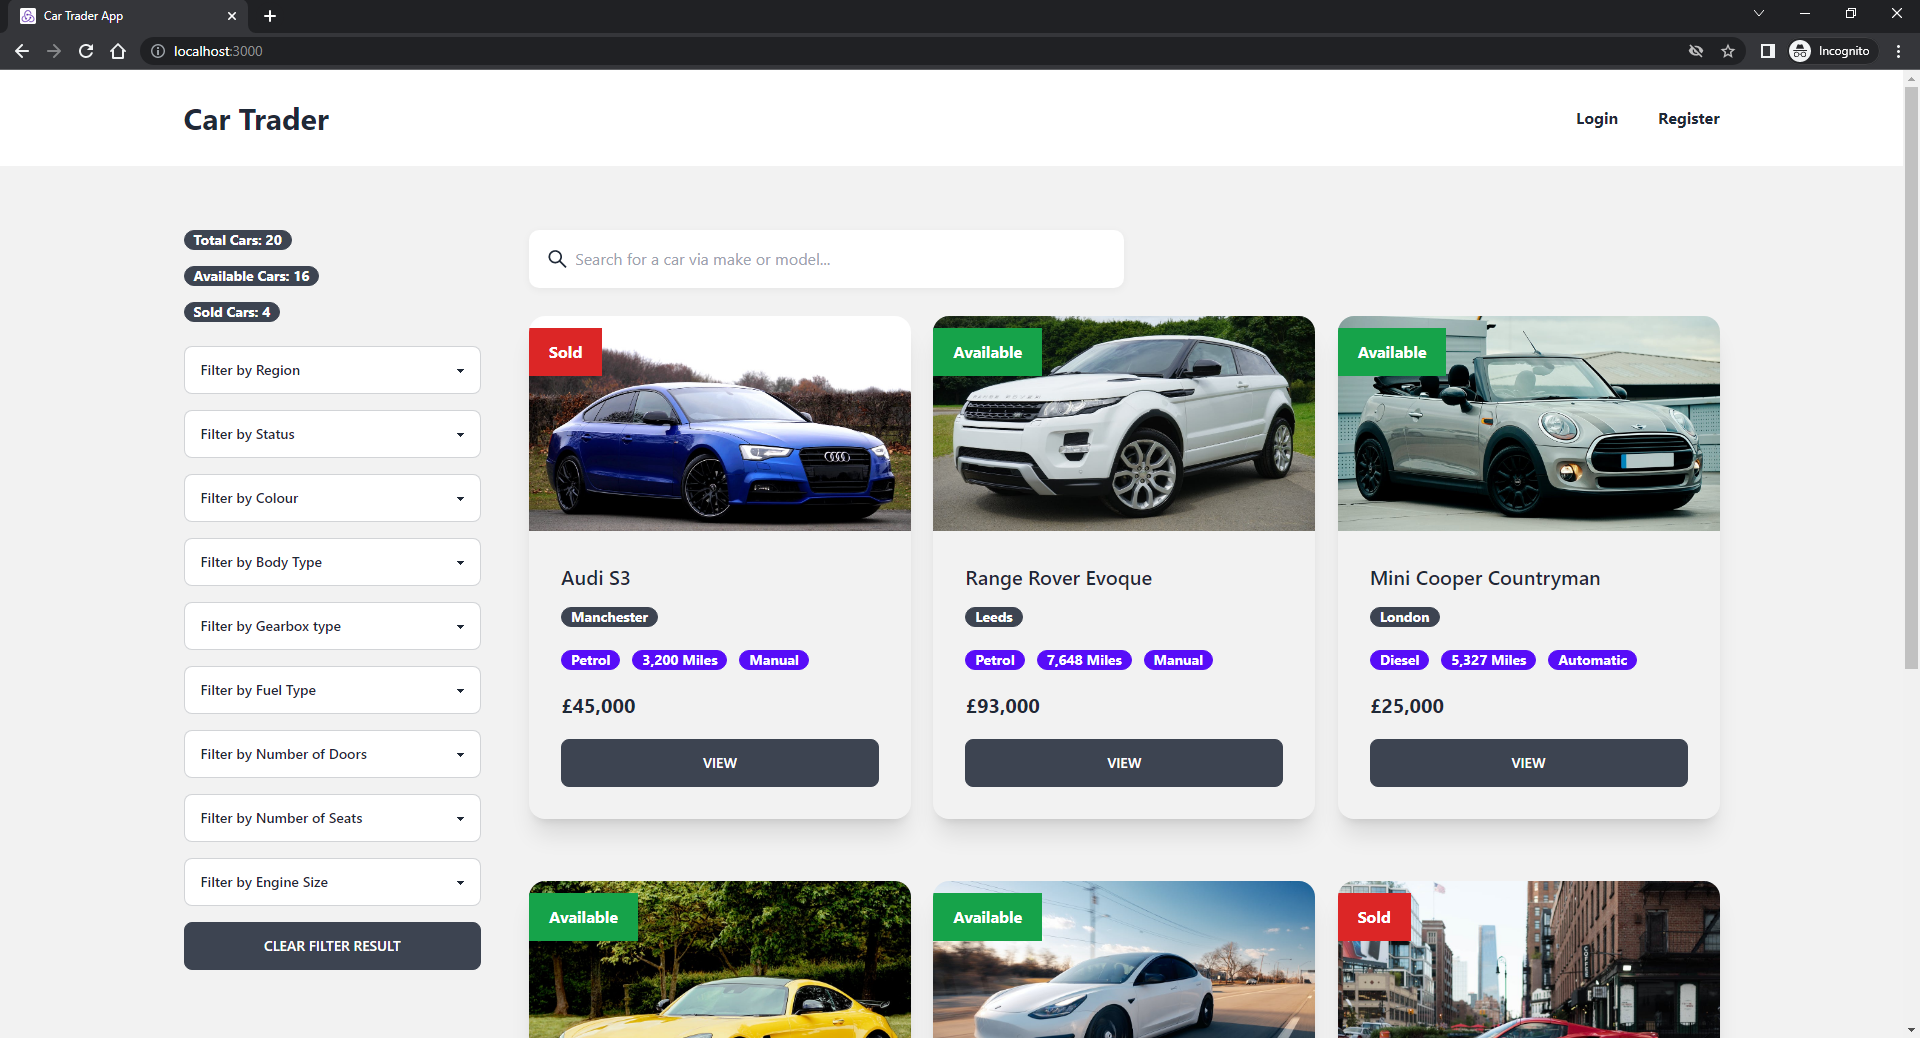
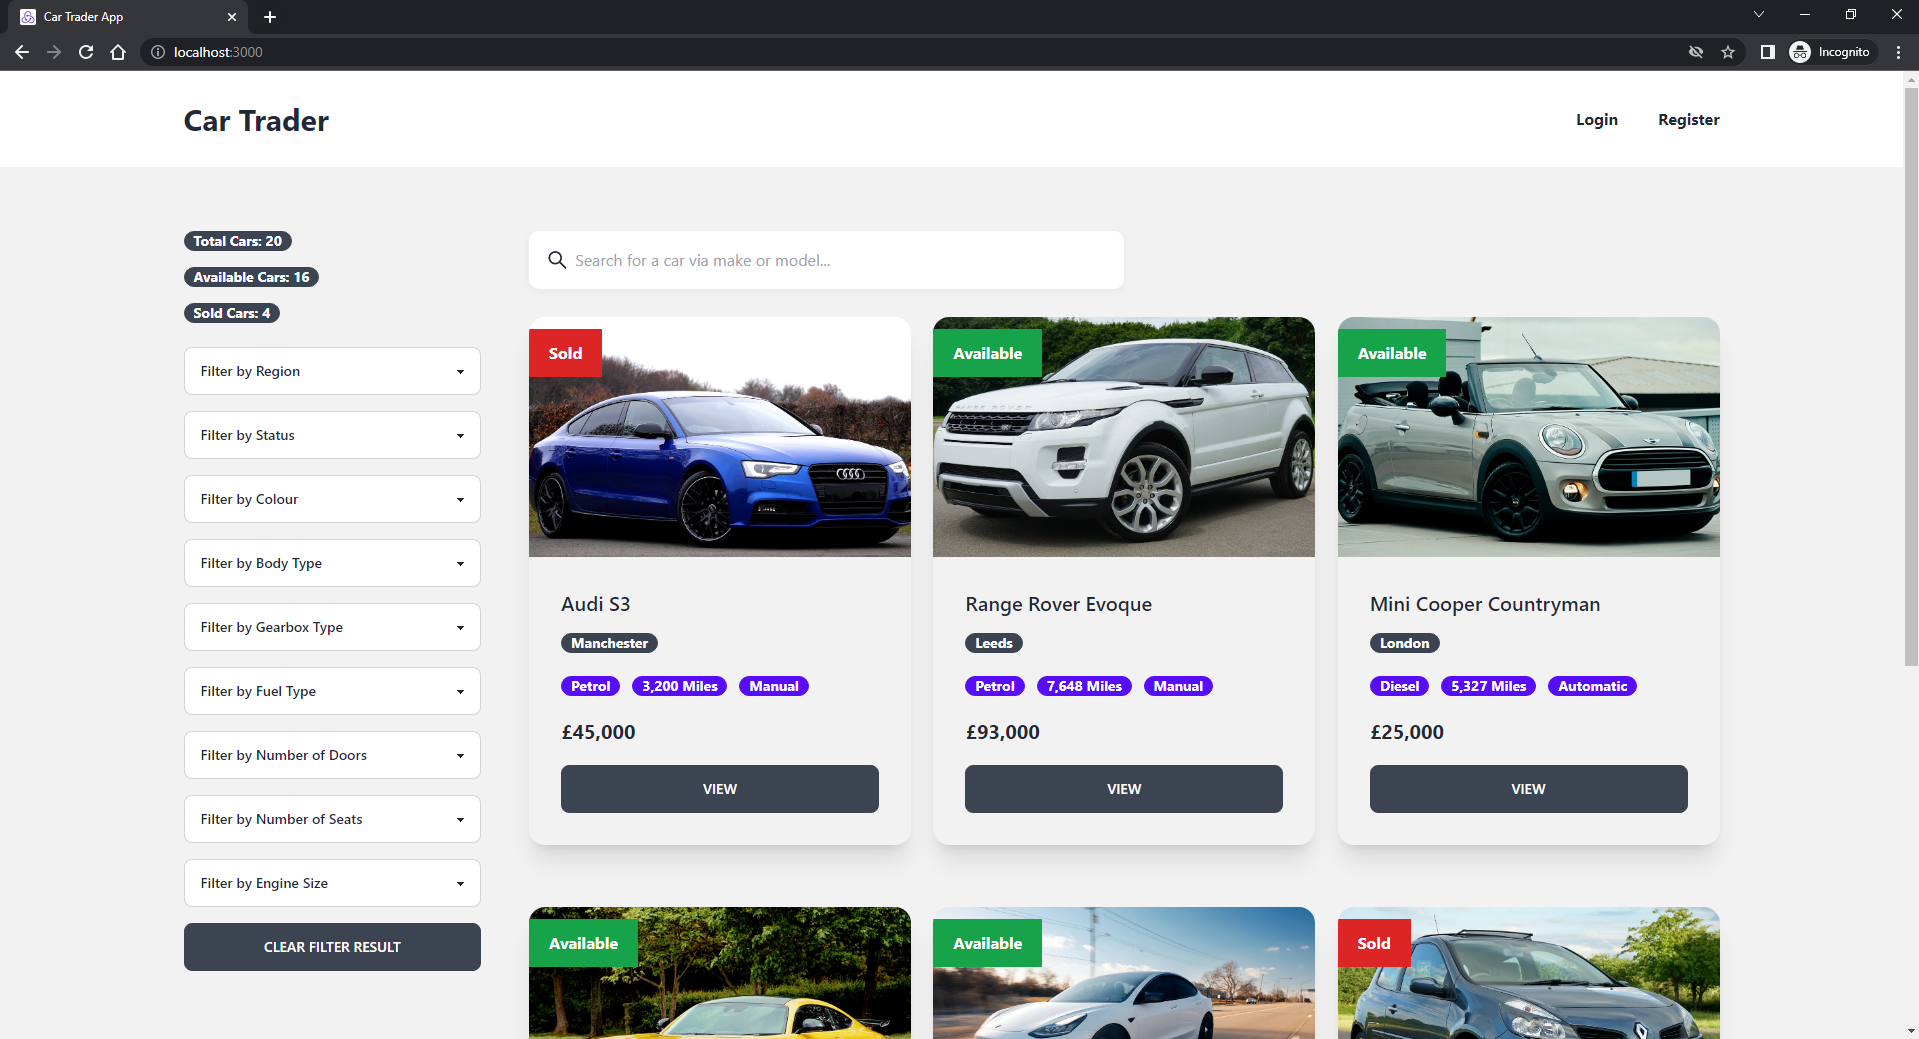
update

diff --git a/frontend/src/pages/CarListing.jsx b/frontend/src/pages/CarListing.jsx
@@ -350,7 +350,7 @@ function CarListing() {
                 value={gearboxOptions.selected}
                 data-testid="gearbox-select"
               >
-                <option value="">Filter by Gearbox type</option>
+                <option value="">Filter by Gearbox Type</option>
                 {gearboxOptions.options?.map((option) => (
                   <option key={option} value={option}>
                     {option}
